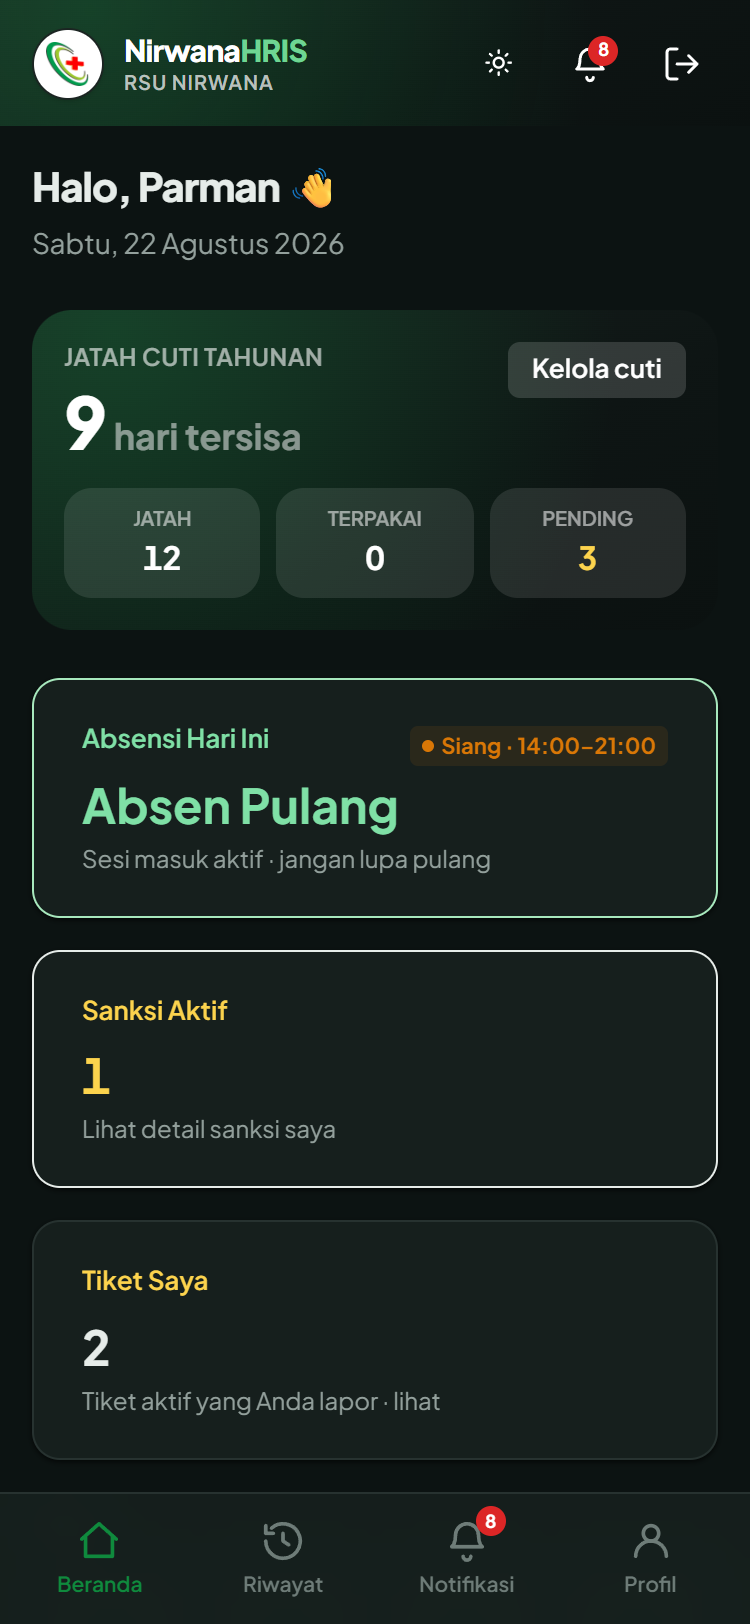
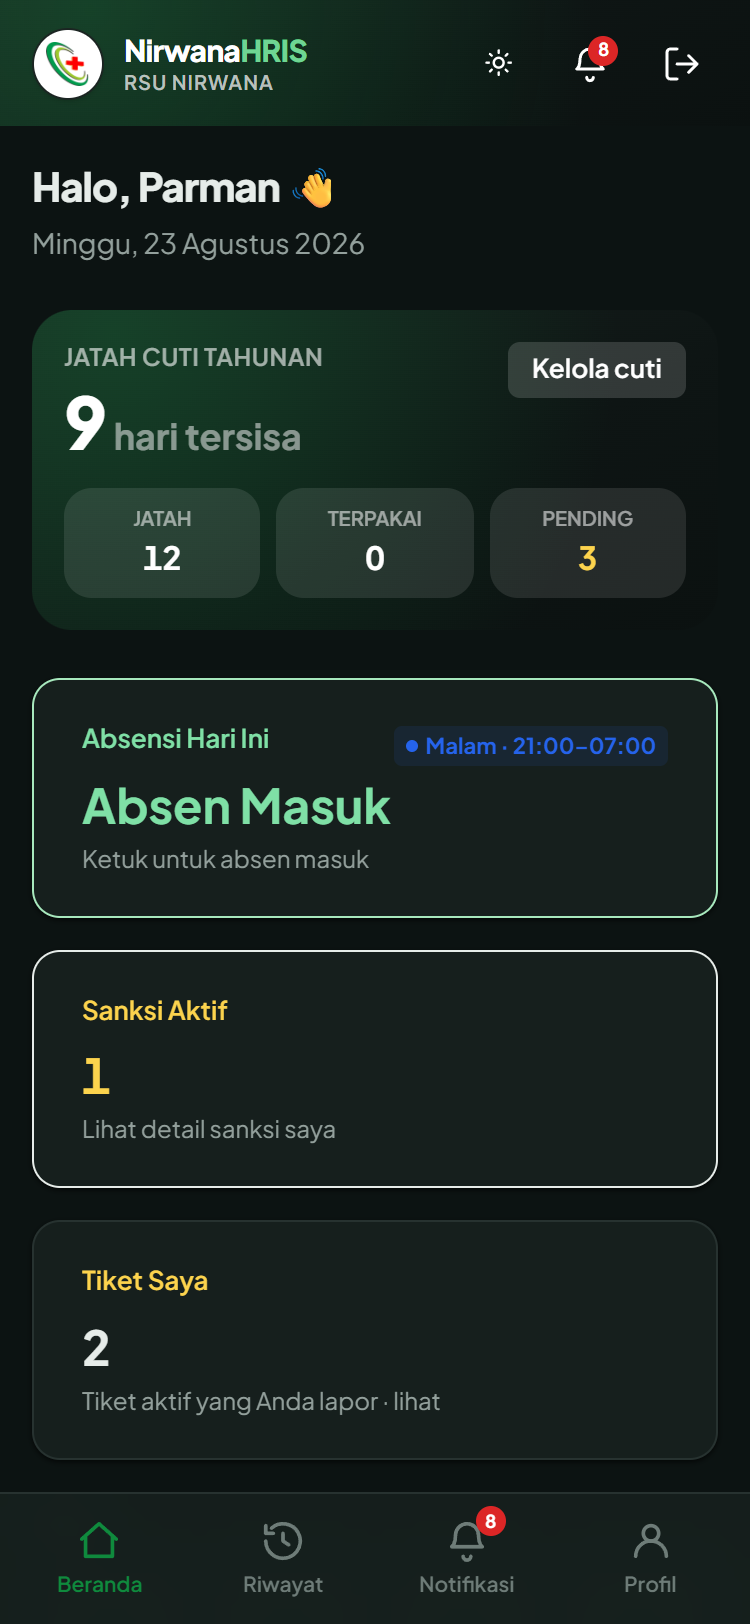
docs(panduan): 7 layar OS dari perangkat asli, penempatan & penanda dibetulkan
- Bab instalasi lengkap: dialog Instal Chrome Android, ikon di layar utama
  Android, dan lima langkah iOS (menu titik tiga, Bagikan, Tambah ke Layar
  Utama, konfirmasi, ikon di layar utama). Nol slot tangkapan tersisa.
- Gambar bilah bawah pindah ke sub-bagian 'Di HP'; sebelumnya menumpuk di
  ujung section sehingga muncul di bawah sub-bagian 'Di komputer' padahal
  isinya layar HP. Urutan gambar Android juga dibetulkan: hasil 'Cara utama'
  tak lagi tampil setelah 'Cara cadangan'.
- Penanda diperbaiki di akarnya: pengukuran kini dilakukan SETELAH menggulir
  dan memakai koordinat viewport (position:fixed). Elemen sticky seperti
  bilah bawah tak ikut bergerak saat halaman digulir, sehingga koordinat
  dokumen yang dipakai sebelumnya selalu meleset. Badge juga dijaga agar
  tak terpotong tepi layar.

Changed region(s): [[0.1533, 0.4618, 0.644, 0.5542], [0.0613, 0.1232, 0.46, 0.1847], [0.552, 0.431, 0.8587, 0.4926]]

diff --git a/resources/views/panduan/instalasi.blade.php b/resources/views/panduan/instalasi.blade.php
@@ -53,6 +53,9 @@
             tidak mendukung. Kalau tombolnya tidak ada, pakai cara cadangan di bawah.
         </x-panduan.catatan>
 
+        <x-panduan.gambar src="instalasi-pasang.png" caption="Tombol Pasang Aplikasi di halaman Profil — muncul bila Chrome menawarkan pemasangan" />
+        <x-panduan.gambar src="android-instal-dialog.png" caption="Chrome meminta konfirmasi — ketuk Instal" />
+
         <h3 class="text-[15px] font-bold mt-5 mb-2">Cara cadangan — lewat menu Chrome</h3>
         <x-panduan.langkah>
             <li>Ketuk menu titik tiga <span class="kbd">⋮</span> di pojok kanan atas Chrome.</li>
@@ -60,10 +63,9 @@
             <li>Ketuk <strong>Instal</strong> / <strong>Tambah</strong> saat diminta konfirmasi.</li>
         </x-panduan.langkah>
 
-        {{-- SS: menu Instal aplikasi di Chrome Android --}}
-        {{-- SS: ikon NirwanaHRIS di layar utama Android --}}
 
-        <x-panduan.gambar src="instalasi-pasang.png" caption="Tombol Pasang Aplikasi di halaman Profil — muncul bila Chrome menawarkan pemasangan" />
+
+        <x-panduan.gambar src="android-layar-utama.png" caption="Ikon NirwanaHRIS sudah berada di layar utama Android" />
     </x-panduan.bagian>
 
     <x-panduan.bagian :id="$bagian[2]['id']" :judul="$bagian[2]['judul']">
@@ -80,10 +82,11 @@
             masih dibuka lewat tab browser, iPhone tidak akan mengizinkan notifikasi sama sekali.
         </x-panduan.catatan>
 
-        {{-- SS: menu Bagikan di Chrome iOS --}}
-        {{-- SS: menu Tambah ke Layar Utama di lembar Bagikan iOS --}}
-        {{-- SS: konfirmasi Tambah ke Layar Utama --}}
-        {{-- SS: ikon NirwanaHRIS di layar utama iPhone --}}
+        <x-panduan.gambar src="ios-menu-titik-tiga.png" caption="Di Chrome iPhone, menu ada di tombol ••• pojok kanan bawah" />
+        <x-panduan.gambar src="ios-bagikan.png" caption="Pilih Bagikan dari menu itu" />
+        <x-panduan.gambar src="ios-tambah-layar-utama.png" caption="Gulir lembar Bagikan, pilih Tambah ke Layar Utama" />
+        <x-panduan.gambar src="ios-konfirmasi-tambah.png" caption="Ketuk Tambah di pojok kanan atas" />
+        <x-panduan.gambar src="ios-layar-utama.png" caption="Ikon NirwanaHRIS sudah berada di layar utama iPhone" />
     </x-panduan.bagian>
 
     <x-panduan.bagian :id="$bagian[3]['id']" :judul="$bagian[3]['judul']">

diff --git a/resources/views/panduan/dasar.blade.php b/resources/views/panduan/dasar.blade.php
@@ -28,6 +28,8 @@
             Itu memang disengaja.
         </p>
 
+        <x-panduan.gambar src="dasar-bilah-bawah.png" caption="Bilah bawah di HP: ① Beranda, ② Riwayat, ③ Notifikasi, ④ Profil" />
+
         <h3 class="text-[15px] font-bold mt-5 mb-2">Di komputer</h3>
         <p class="text-[14px] leading-relaxed">
             Menu ada di sisi kiri layar, dikelompokkan: <strong>Operasional</strong>, <strong>SDM</strong>,
@@ -35,7 +37,6 @@
             menciutkan sidebar agar layar lebih lega; pilihan itu diingat untuk kunjungan berikutnya.
         </p>
 
-        <x-panduan.gambar src="dasar-bilah-bawah.png" caption="Bilah bawah di HP: ① Beranda, ② Riwayat, ③ Notifikasi, ④ Profil" />
     </x-panduan.bagian>
 
     <x-panduan.bagian :id="$bagian[1]['id']" :judul="$bagian[1]['judul']">
